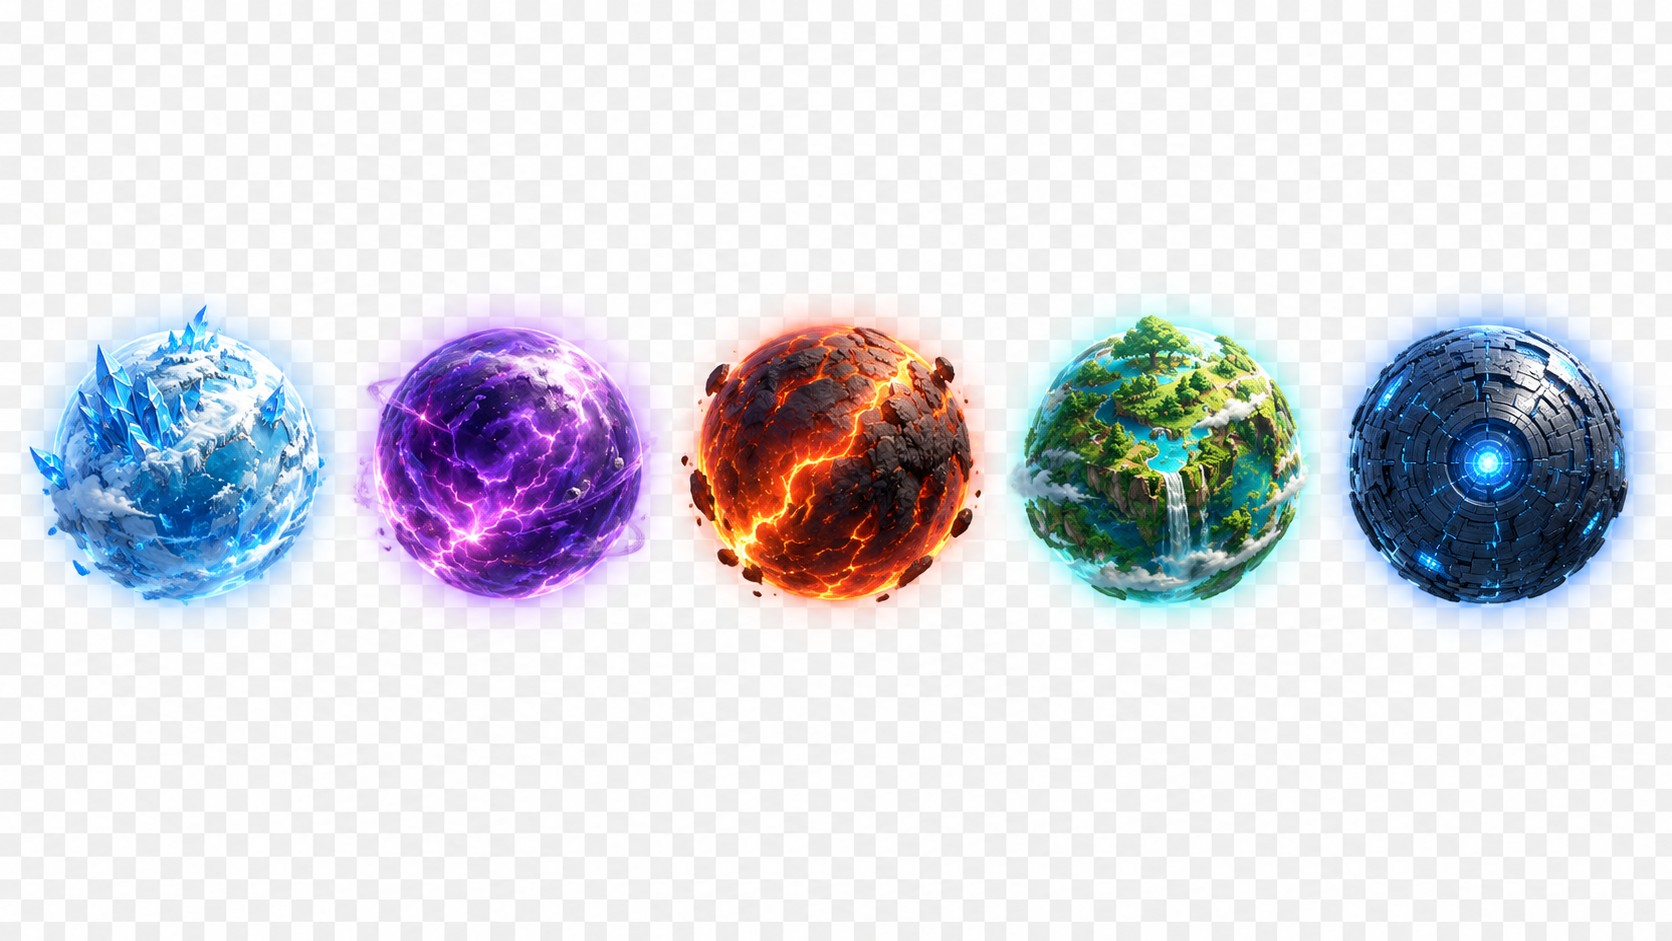
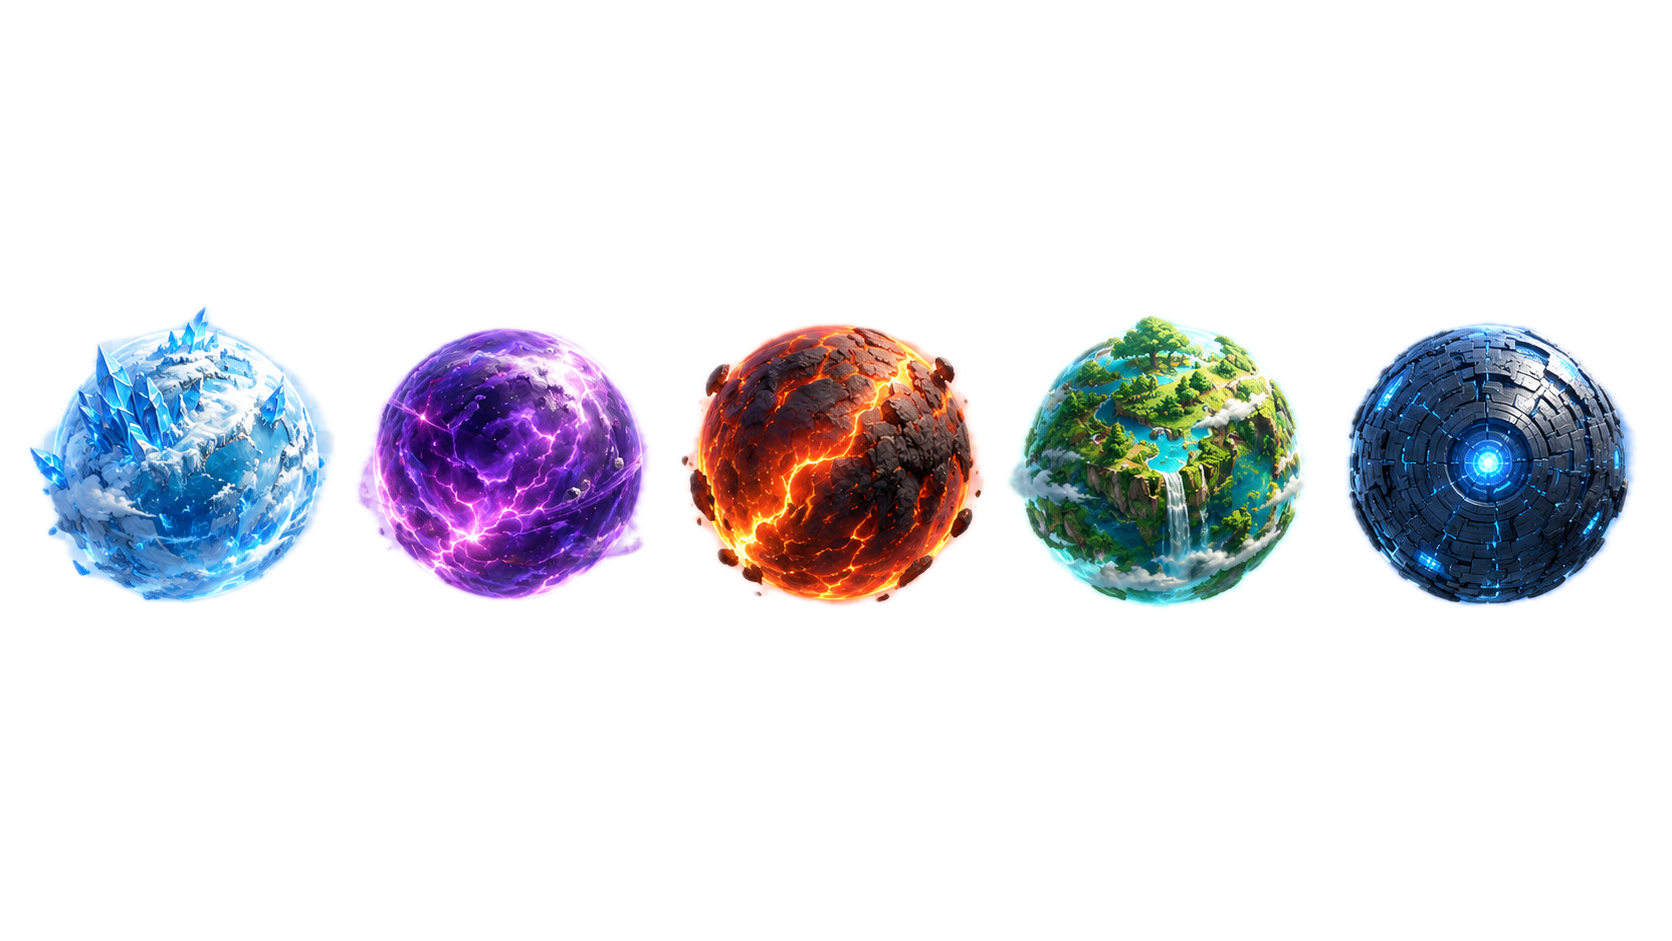
TiendaFinal

diff --git a/CSweb/wwwroot/css/tienda.css b/CSweb/wwwroot/css/tienda.css
@@ -82,20 +82,29 @@
     transform: translateY(-4px);
     box-shadow: 0 8px 24px rgba(16,75,112,0.12);
 }
+.tienda-card-icono-wrapper {
+    width: 100%;
+    aspect-ratio: 1 / 1;
+    border-radius: 16px;
+    display: flex;
+    justify-content: center;
+    align-items: center;
+    margin-bottom: 16px;
+    overflow: hidden;
+}
 .tienda-card-icono {
-    width: 64px;
-    height: 64px;
-    border-radius: 14px;
+    width: 100%;
+    height: 100%;
+    border-radius: 16px;
     display: flex;
     align-items: center;
     justify-content: center;
-    font-size: 1.8rem;
-    margin-bottom: 14px;
+    font-size: 4rem;
 }
 .tienda-card-img {
-    width: 40px;
-    height: 40px;
-    object-fit: contain;
+    width: 100%;
+    height: 100%;
+    object-fit: cover;
 }
 .tienda-card-nombre {
     font-size: 1.1rem;